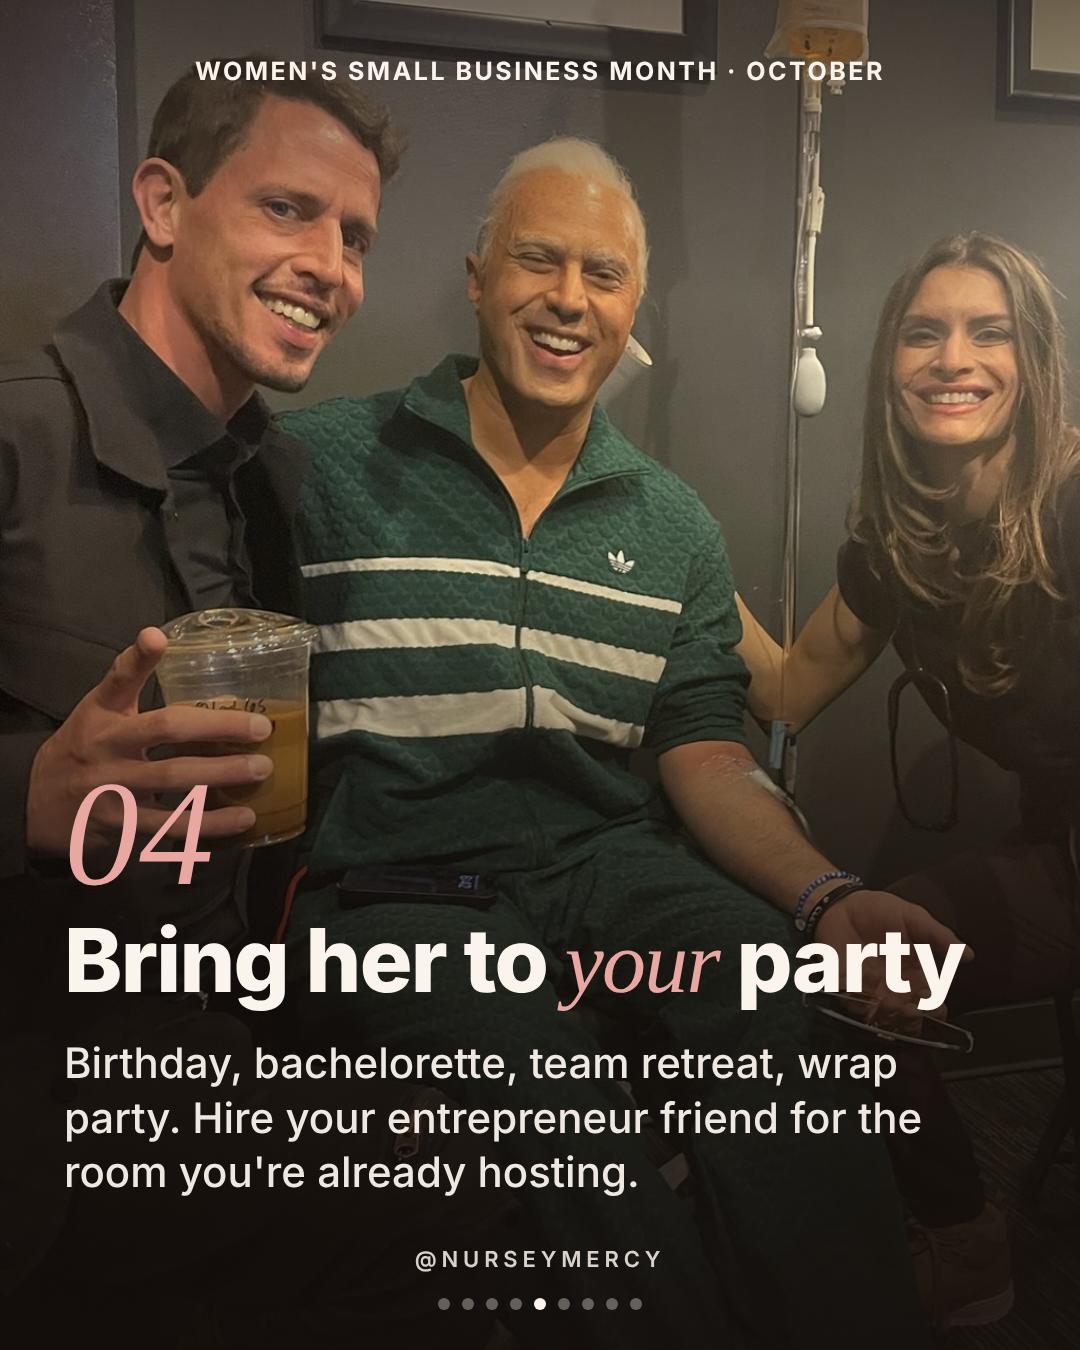
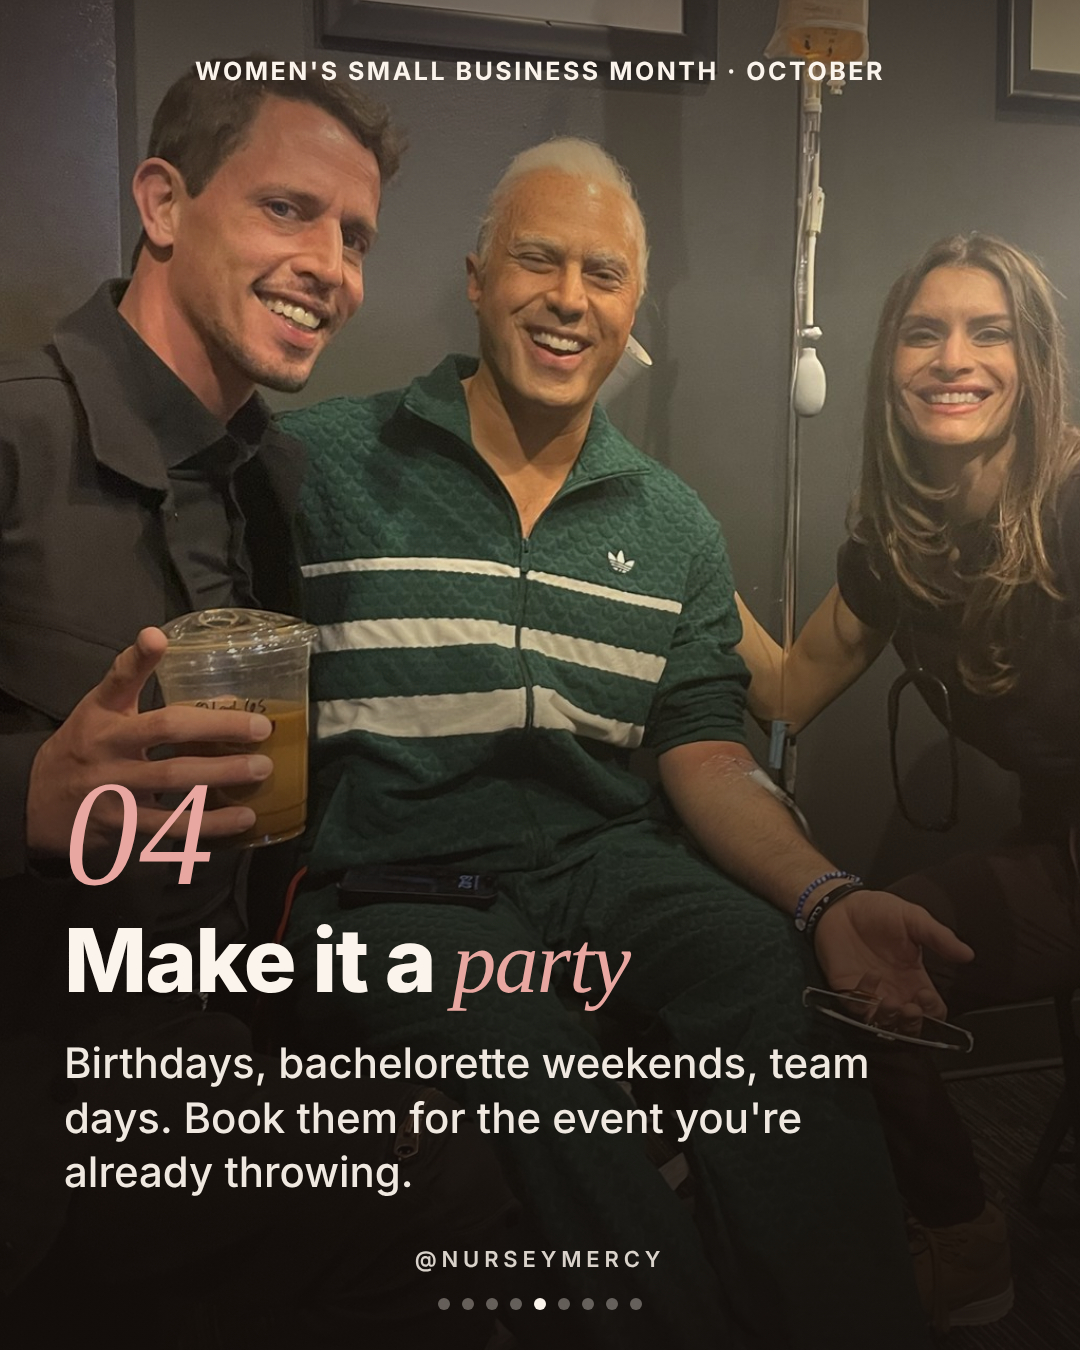
Rewrite all carousel slide text and caption in a distinct voice
Claude-Session: https://claude.ai/code/session_01MKtqwUZJD2vDXX5GD9p1Yc

Changed region(s): [[0.0611, 0.7778, 0.8556, 0.9022], [0.0611, 0.6844, 0.8861, 0.7467]]

diff --git a/carousel.html b/carousel.html
@@ -56,7 +56,7 @@
   h2 em, h1 em { font-family: var(--serif); font-weight: 400; font-style: italic; color: var(--rose); }
   p { font-size: 42px; line-height: 1.3; font-weight: 500; max-width: 880px; opacity: .95; }
 
-  .cover h1 { font-size: 100px; line-height: .98; margin-bottom: 30px; }
+  .cover h1 { font-size: 96px; line-height: .98; margin-bottom: 30px; }
   .cover .kicker {
     display: inline-block; font-size: 26px; font-weight: 700; letter-spacing: .16em;
     text-transform: uppercase; background: var(--accent); color: var(--ink);
@@ -90,8 +90,8 @@
 <div class="handle">@nurseymercy</div>
   <div class="copy">
     <span class="kicker">Swipe →</span>
-    <h1>The best ways to back the <em>entrepreneurs</em> you love</h1>
-    <p>From a nurse who built her business one house call at a time. Here is what actually helped.</p>
+    <h1>Love an <em>entrepreneur</em>? Here's how to really show up</h1>
+    <p>7 things that mean more than a heart emoji.</p>
   </div>
   <div class="dots"><i class="on"></i><i></i><i></i><i></i><i></i><i></i><i></i><i></i><i></i></div>
 </section>
@@ -104,8 +104,8 @@
 <div class="handle">@nurseymercy</div>
   <div class="copy">
     <div class="num">01</div>
-    <h2>Show up <em>in person</em></h2>
-    <p>Come to the launch, the pop-up, the tiny event. A full room changes how a business owner feels all week.</p>
+    <h2>Be in the <em>room</em></h2>
+    <p>Go to the opening, the pop-up, the awkward first event. Your face in the crowd is a quiet kind of fuel.</p>
   </div>
   <div class="dots"><i></i><i class="on"></i><i></i><i></i><i></i><i></i><i></i><i></i><i></i></div>
 </section>
@@ -118,8 +118,8 @@
 <div class="handle">@nurseymercy</div>
   <div class="copy">
     <div class="num">02</div>
-    <h2>Tell <em>your</em> story</h2>
-    <p>Post about your own experience in your own words. A real story from a friend beats any polished ad.</p>
+    <h2>Post your <em>own</em> take</h2>
+    <p>Skip the repost. Share what you loved in your own words and your followers will actually listen.</p>
   </div>
   <div class="dots"><i></i><i></i><i class="on"></i><i></i><i></i><i></i><i></i><i></i><i></i></div>
 </section>
@@ -132,8 +132,8 @@
 <div class="handle">@nurseymercy</div>
   <div class="copy">
     <div class="num">03</div>
-    <h2>Pay <em>full price</em></h2>
-    <p>Book the service without asking for the friend discount. Paying what it's worth says you believe in it.</p>
+    <h2>Skip the <em>discount</em> ask</h2>
+    <p>Book it. Buy it. Pay what it's worth. That is how a small business stays alive.</p>
   </div>
   <div class="dots"><i></i><i></i><i></i><i class="on"></i><i></i><i></i><i></i><i></i><i></i></div>
 </section>
@@ -146,8 +146,8 @@
 <div class="handle">@nurseymercy</div>
   <div class="copy">
     <div class="num">04</div>
-    <h2>Bring her to <em>your</em> party</h2>
-    <p>Birthday, bachelorette, team retreat, wrap party. Hire your entrepreneur friend for the room you're already hosting.</p>
+    <h2>Make it a <em>party</em></h2>
+    <p>Birthdays, bachelorette weekends, team days. Book them for the event you're already throwing.</p>
   </div>
   <div class="dots"><i></i><i></i><i></i><i></i><i class="on"></i><i></i><i></i><i></i><i></i></div>
 </section>
@@ -160,8 +160,8 @@
 <div class="handle">@nurseymercy</div>
   <div class="copy">
     <div class="num">05</div>
-    <h2>Give <em>honest</em> feedback</h2>
-    <p>Tell them what worked and what could be better. Kind, specific feedback is a gift most business owners never get.</p>
+    <h2>Be <em>honest</em> with them</h2>
+    <p>Tell them what worked and what didn't. Kind, specific feedback is rare and priceless.</p>
   </div>
   <div class="dots"><i></i><i></i><i></i><i></i><i></i><i class="on"></i><i></i><i></i><i></i></div>
 </section>
@@ -174,8 +174,8 @@
 <div class="handle">@nurseymercy</div>
   <div class="copy">
     <div class="num">06</div>
-    <h2>Take one thing <em>off their plate</em></h2>
-    <p>Business owners never clock out. Bring lunch, run the errand, or just say, "Go home. I've got this."</p>
+    <h2>Lighten the <em>load</em></h2>
+    <p>Drop off lunch. Run an errand. Say, "Go home, I've got this." Rest is support too.</p>
   </div>
   <div class="dots"><i></i><i></i><i></i><i></i><i></i><i></i><i class="on"></i><i></i><i></i></div>
 </section>
@@ -188,8 +188,8 @@
 <div class="handle">@nurseymercy</div>
   <div class="copy">
     <div class="num">07</div>
-    <h2>Celebrate the <em>small</em> wins</h2>
-    <p>First client. First five-star review. First day off. Cheer loudly for all of it. Nobody else sees the grind.</p>
+    <h2>Cheer for the <em>little</em> things</h2>
+    <p>First client, first five-star review, first real day off. Make a big deal out of all of it.</p>
   </div>
   <div class="dots"><i></i><i></i><i></i><i></i><i></i><i></i><i></i><i class="on"></i><i></i></div>
 </section>
@@ -201,9 +201,9 @@
   <div class="banner">Women's Small Business Month · October</div>
 <div class="handle">@nurseymercy</div>
   <div class="copy">
-    <h1>Tag an <em>entrepreneur</em> you're rooting for</h1>
-    <span class="tag">@ them in the comments</span>
-    <p>Save this for later, or send it to someone who would love it.</p>
+    <h1>Know someone <em>building</em> something?</h1>
+    <span class="tag">Tag them below</span>
+    <p>Save this, then send it to the person who needs a cheer.</p>
   </div>
   <div class="dots"><i></i><i></i><i></i><i></i><i></i><i></i><i></i><i></i><i class="on"></i></div>
 </section>

diff --git a/caption.md b/caption.md
@@ -1,7 +1,5 @@
-Texting "so proud of you" is sweet. Showing up in ways that move the needle is better. 💖
+A heart emoji is nice. Showing up is better. 💖
 
-October is Women's Small Business Month, so here are 7 ways to back the entrepreneurs in your life. I'm a nurse who built a business house call by house call, and these are the things that actually helped me.
-
-Swipe through, then tag someone you're rooting for. 👇
+I built my nursing business one house call at a time, and the people who helped most weren't doing anything fancy. Here are 7 simple ways to back the entrepreneurs in your life. Swipe through, then tag someone who's building something. 👇
 
 #WomensSmallBusinessMonth #SupportSmallBusiness #EntrepreneurLife #NurseEntrepreneur #MobileIV #NurseyMercy
